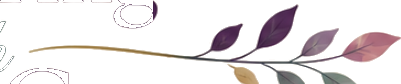
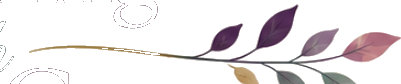
S reproductions finalized: halo cleanup, S2 Grace height parity, sprig offsets

diff --git a/brand-options.html b/brand-options.html
@@ -58,7 +58,7 @@
     <h2>Same vines, our script</h2>
     <p class="note">The identical three arrangements and sprigs, with the lettering in the script currently on the draft site.</p>
     <div class="grid"><div class="card"><div class="art"><svg viewBox="0 0 632 352" style="width:100%; max-width:632px; height:auto; display:block;" xmlns="http://www.w3.org/2000/svg"><image href="assets/img/brand-v5/sprig1.png" x="404" y="27" width="216"/><image href="assets/img/brand-v5/arc1.png" x="100" y="233" width="457"/><text x="225.0" y="143.0" font-family="Alex Brush" font-size="126" fill="#45274D" text-anchor="middle">Caring</text><text x="170.0" y="207" font-family="Alex Brush" font-size="56" fill="#46625E" text-anchor="middle">with</text><text x="373.5" y="254" font-family="Alex Brush" font-size="126" fill="#45274D" text-anchor="middle">Grace</text></svg></div>
-      <div class="meta"><h3>S1 · Option 1, site script</h3><p>Karen's first arrangement, lettering in the site script; her sprig and gold sweep.</p></div></div><div class="card"><div class="art"><svg viewBox="0 0 632 355" style="width:100%; max-width:632px; height:auto; display:block;" xmlns="http://www.w3.org/2000/svg"><image href="assets/img/brand-v5/sprig2.png" x="50" y="45" width="147"/><image href="assets/img/brand-v5/arc2.png" x="172" y="168" width="409"/><text x="318.5" y="121.12" font-family="Alex Brush" font-size="107" fill="#45274D" text-anchor="middle">Caring</text><text x="317.0" y="194" font-family="Alex Brush" font-size="58" fill="#46625E" text-anchor="middle">with</text><text x="332.5" y="273" font-family="Alex Brush" font-size="154" fill="#45274D" text-anchor="middle">Grace</text></svg></div>
+      <div class="meta"><h3>S1 · Option 1, site script</h3><p>Karen's first arrangement, lettering in the site script; her sprig and gold sweep.</p></div></div><div class="card"><div class="art"><svg viewBox="0 0 632 355" style="width:100%; max-width:632px; height:auto; display:block;" xmlns="http://www.w3.org/2000/svg"><image href="assets/img/brand-v5/sprig2.png" x="59" y="55" width="138"/><image href="assets/img/brand-v5/arc2.png" x="172" y="168" width="409"/><text x="318.5" y="121.12" font-family="Alex Brush" font-size="107" fill="#45274D" text-anchor="middle">Caring</text><text x="317.0" y="194" font-family="Alex Brush" font-size="58" fill="#46625E" text-anchor="middle">with</text><text x="332.5" y="273" font-family="Alex Brush" font-size="120" fill="#45274D" text-anchor="middle">Grace</text></svg></div>
       <div class="meta"><h3>S2 · Option 2, site script</h3><p>Left sprig, centered script stack, sweep beneath.</p></div></div><div class="card"><div class="art"><svg viewBox="0 0 632 286" style="width:100%; max-width:632px; height:auto; display:block;" xmlns="http://www.w3.org/2000/svg"><image href="assets/img/brand-v5/branch3.png" x="192" y="128" width="401"/><text x="201.0" y="121.64" font-family="Alex Brush" font-size="101" fill="#45274D" text-anchor="middle">Caring</text><text x="136.0" y="198" font-family="Alex Brush" font-size="56" fill="#46625E" text-anchor="middle">with</text><text x="319.5" y="269" font-family="Alex Brush" font-size="138" fill="#45274D" text-anchor="middle">Grace</text></svg></div>
       <div class="meta"><h3>S3 · Option 3, site script</h3><p>The with-line branch; Grace steps down and right beneath it.</p></div></div>
     </div>
